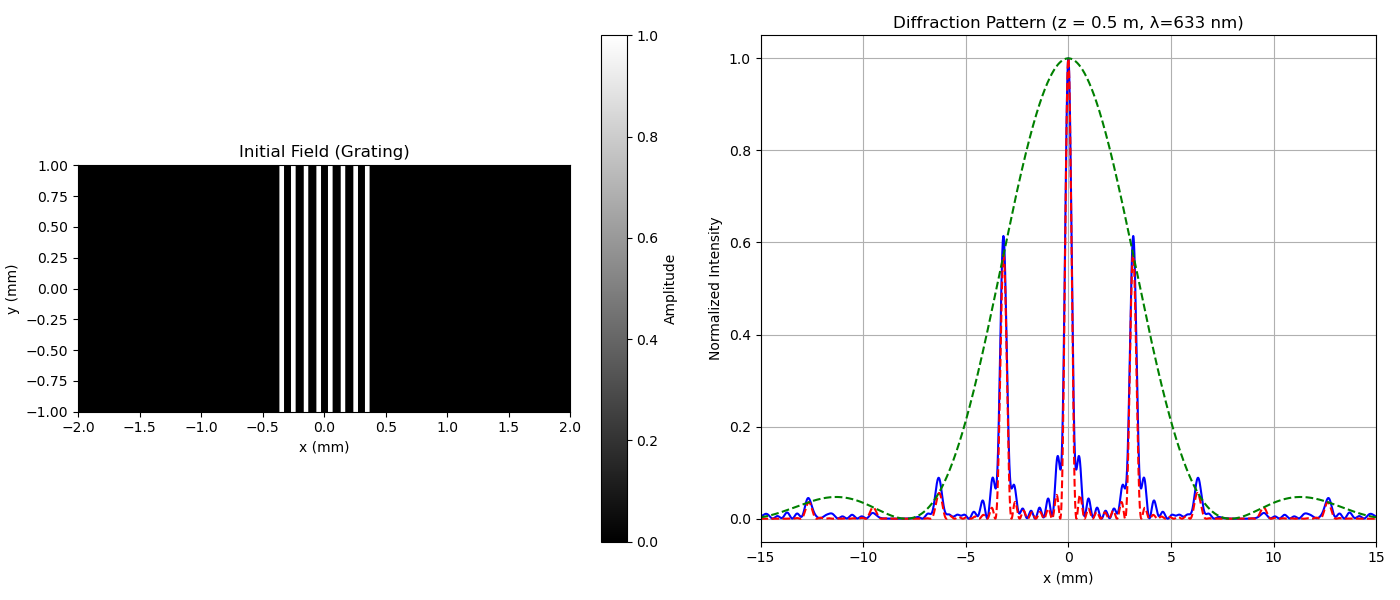
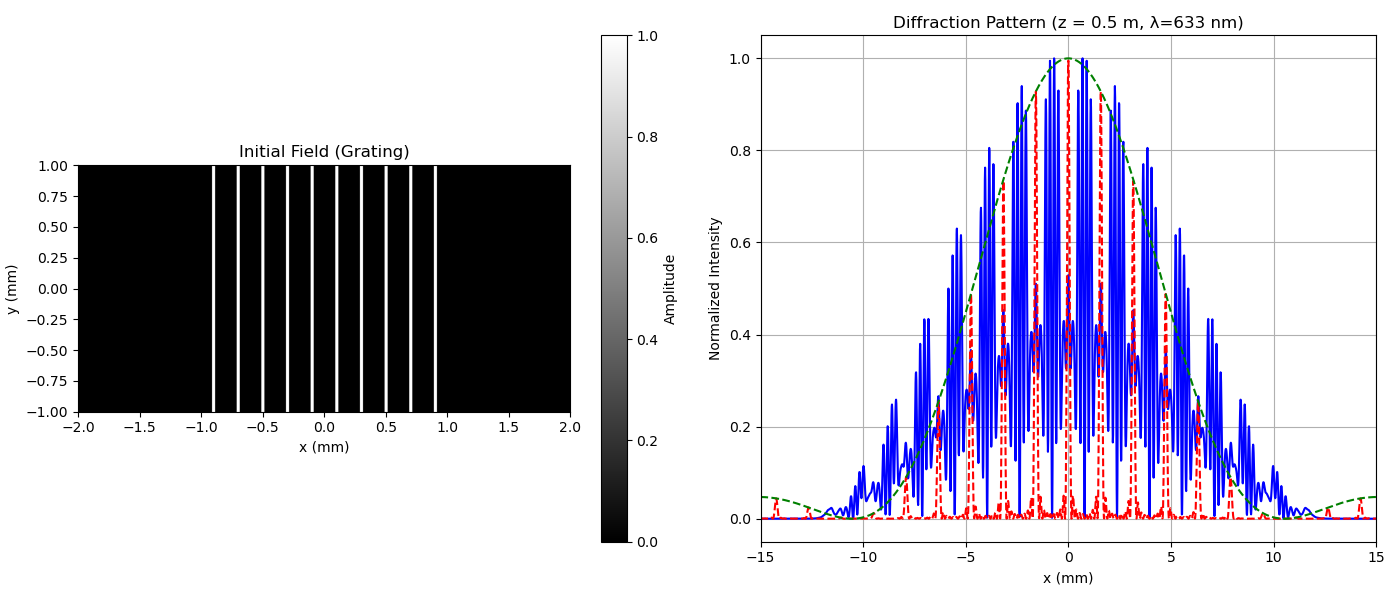
okay im done with tiling for now it can;t get the same accuracy as full field and doesnt offer too much in terms of performance gain

Changed region(s): [[0.5529, 0.09, 0.9829, 0.87], [0.1536, 0.27, 0.3071, 0.69]]

diff --git a/lightpy/experiment_functions.py b/lightpy/experiment_functions.py
@@ -46,9 +46,12 @@ def run_single_slit_experiment(config_file_name="single_slit_basic.json"):
     if not tiling_cfg['use_tiling']:
       U_final = run_angular_spectrum_simulation(U0, wavelength, Lx, Ly, z_prop)
     else:
-      tile_size = tiling_cfg['tile_size']
-      pad = tiling_cfg['pad']
-      U_final = run_tiled_propagation(U0, wavelength, Lx, Ly, z_prop, tile_size, pad)
+      tile_size_x = tiling_cfg['tile_size_x']
+      pad_x = tiling_cfg['pad_x']
+      tile_size_y = tiling_cfg['tile_size_y']
+      pad_y = tiling_cfg['pad_y']
+      U_final = run_tiled_propagation(U0, wavelength, Lx, Ly, z_prop, \
+                                      tile_size_x, pad_x, tile_size_y, pad_y)
     I_final = np.abs(U_final)**2
 
     # Plot results using the utility function
@@ -89,9 +92,12 @@ def run_double_slit_experiment(config_file_name="double_slit_interference.json")
     if not tiling_cfg['use_tiling']:
       U_final = run_angular_spectrum_simulation(U0, wavelength, Lx, Ly, z_prop)
     else:
-      tile_size = tiling_cfg['tile_size']
-      pad = tiling_cfg['pad']
-      U_final = run_tiled_propagation(U0, wavelength, Lx, Ly, z_prop, tile_size, pad)
+      tile_size_x = tiling_cfg['tile_size_x']
+      pad_x = tiling_cfg['pad_x']
+      tile_size_y = tiling_cfg['tile_size_y']
+      pad_y = tiling_cfg['pad_y']
+      U_final = run_tiled_propagation(U0, wavelength, Lx, Ly, z_prop, \
+                                      tile_size_x, pad_x, tile_size_y, pad_y)
     I_final = np.abs(U_final)**2
 
     # Plot results using the utility function
@@ -129,9 +135,12 @@ def run_circular_aperture_experiment(config_file_name="circular_aperture_airy.js
     if not tiling_cfg['use_tiling']:
       U_final = run_angular_spectrum_simulation(U0, wavelength, Lx, Ly, z_prop)
     else:
-      tile_size = tiling_cfg['tile_size']
-      pad = tiling_cfg['pad']
-      U_final = run_tiled_propagation(U0, wavelength, Lx, Ly, z_prop, tile_size, pad)
+      tile_size_x = tiling_cfg['tile_size_x']
+      pad_x = tiling_cfg['pad_x']
+      tile_size_y = tiling_cfg['tile_size_y']
+      pad_y = tiling_cfg['pad_y']
+      U_final = run_tiled_propagation(U0, wavelength, Lx, Ly, z_prop, \
+                                      tile_size_x, pad_x, tile_size_y, pad_y)
     I_final = np.abs(U_final)**2
 
     # Plot results using the utility function
@@ -176,9 +185,12 @@ def run_grating_experiment(config_file_name="diffraction_grating.json"):
     if not tiling_cfg['use_tiling']:
       U_final = run_angular_spectrum_simulation(U0, wavelength, Lx, Ly, z_prop)
     else:
-      tile_size = tiling_cfg['tile_size']
-      pad = tiling_cfg['pad']
-      U_final = run_tiled_propagation(U0, wavelength, Lx, Ly, z_prop, tile_size, pad)
+      tile_size_x = tiling_cfg['tile_size_x']
+      pad_x = tiling_cfg['pad_x']
+      tile_size_y = tiling_cfg['tile_size_y']
+      pad_y = tiling_cfg['pad_y']
+      U_final = run_tiled_propagation(U0, wavelength, Lx, Ly, z_prop, \
+                                      tile_size_x, pad_x, tile_size_y, pad_y)
     I_final = np.abs(U_final)**2
 
     # Plot results using the utility function

diff --git a/lightpy/core_propagator.py b/lightpy/core_propagator.py
@@ -37,33 +37,40 @@ def run_angular_spectrum_simulation(U0, wavelength, Lx, Ly, z_prop):
     return ifft2(ifftshift(A0))
     
 
-def run_tiled_propagation(U0, wavelength, Lx, Ly, z_prop, tile_size=512, pad=64):
+def run_tiled_propagation(U0, wavelength, Lx, Ly, z_prop, tile_size_x=512, pad_x=64, tile_size_y=512, pad_y=64):
     Ny, Nx = U0.shape
     output = np.zeros_like(U0, dtype=np.complex128)
 
-    step = tile_size - 2 * pad
-    for y in range(0, Ny, step):
-        for x in range(0, Nx, step):
-            y0 = max(y - pad, 0)
-            y1 = min(y + tile_size - pad, Ny)
-            x0 = max(x - pad, 0)
-            x1 = min(x + tile_size - pad, Nx)
+    dx = Lx / Nx
+    dy = Ly / Ny
 
-            tile = np.zeros((tile_size, tile_size), dtype=U0.dtype)
+    step_x = tile_size_x - 2 * pad_x
+    step_y = tile_size_y - 2 * pad_y
+    for y in range(0, Ny, step_y):
+        for x in range(0, Nx, step_x):
+            y0 = max(y - pad_y, 0)
+            y1 = min(y + tile_size_y - pad_y, Ny)
+            x0 = max(x - pad_x, 0)
+            x1 = min(x + tile_size_x - pad_x, Nx)
+
+            tile = np.zeros((tile_size_y, tile_size_x), dtype=U0.dtype)
             sy = slice(0, y1 - y0)
             sx = slice(0, x1 - x0)
             tile[sy, sx] = U0[y0:y1, x0:x1]
 
-            tile_prop = run_angular_spectrum_simulation(tile, wavelength, Lx, Ly, z_prop)
+            Lx_tile = dx * tile_size_x
+            Ly_tile = dy * tile_size_y
+            tile_prop = run_angular_spectrum_simulation(tile, wavelength, Lx_tile, Ly_tile, z_prop)
+            #tile_prop = run_angular_spectrum_simulation(tile, wavelength, Lx, Ly, z_prop)
 
             # Crop to central (non-padded) region
-            cy0, cy1 = pad, tile_size - pad
-            cx0, cx1 = pad, tile_size - pad
-
+            cy0, cy1 = pad_y, tile_size_y - pad_y
+            cx0, cx1 = pad_x, tile_size_x - pad_x
+            
             oy0 = y
-            oy1 = min(y + step, Ny)
+            oy1 = min(y + step_y, Ny)
             ox0 = x
-            ox1 = min(x + step, Nx)
+            ox1 = min(x + step_x, Nx)
 
             output[oy0:oy1, ox0:ox1] = tile_prop[cy0:cy0 + (oy1 - oy0), cx0:cx0 + (ox1 - ox0)]
 

diff --git a/scripts/tiling_test.py b/scripts/tiling_test.py
@@ -1,12 +1,13 @@
 from lightpy import (
     run_tiled_propagation,
     run_angular_spectrum_simulation,
-    create_circular_aperture_mask
+    create_circular_aperture_mask,
+    create_single_slit_mask
 )
 import numpy as np
 import matplotlib.pyplot as plt
 
-Ny, Nx = 2048, 2048
+Ny, Nx = 4096, 4096
 Lx, Ly = 10.e-3, 10.e-3 # m
 dx, dy = Lx / Nx, Ly / Ny
 wavelength = 532.e-9 # m
@@ -19,14 +20,30 @@ X, Y = np.meshgrid(x, y, indexing='xy')
 radius = 0.2e-3
 #U0 = (np.sqrt(X**2 + Y**2) < radius).astype(np.complex64)
 U0 = create_circular_aperture_mask(X, Y, radius)
+#U0 = create_single_slit_mask(X, Y, 100.e-6, 5e-3)
 
-U_non_tiled = run_tiled_propagation(U0, wavelength, Lx, Ly, z_prop, tile_size=512, pad=128)
-U_tiled = run_angular_spectrum_simulation(U0, wavelength, Lx, Ly, z_prop)
-
+U_tiled = run_tiled_propagation(U0, wavelength, Lx, Ly, z_prop, tile_size=1024, pad=64)
+U_non_tiled = run_angular_spectrum_simulation(U0, wavelength, Lx, Ly, z_prop)
 
 # Assuming U1 is the propagated field from tiled_propagation()
 #intensity = np.abs(U1)**2
 relative_error = np.abs(U_tiled - U_non_tiled) / (np.abs(U_non_tiled) + 1e-12)
+
+plt.figure(figsize=(8, 6))
+plt.imshow(np.abs(U_tiled)**2, extent=[-Lx/2*1e3, Lx/2*1e3, -Ly/2*1e3, Ly/2*1e3], cmap='inferno')
+plt.colorbar(label='Intensity (a.u.)')
+plt.xlabel('x (mm)')
+plt.ylabel('y (mm)')
+plt.title('Propagated Intensity Pattern')
+plt.savefig("results/tile_intensity.png")
+
+plt.figure(figsize=(8, 6))
+plt.imshow(np.abs(U_non_tiled)**2, extent=[-Lx/2*1e3, Lx/2*1e3, -Ly/2*1e3, Ly/2*1e3], cmap='inferno')
+plt.colorbar(label='Intensity (a.u.)')
+plt.xlabel('x (mm)')
+plt.ylabel('y (mm)')
+plt.title('Propagated Intensity Pattern')
+plt.savefig("results/full_intensity.png")
 
 plt.figure(figsize=(8, 6))
 plt.imshow(relative_error, extent=[-Lx/2*1e3, Lx/2*1e3, -Ly/2*1e3, Ly/2*1e3], cmap='inferno')

diff --git a/scripts/running_experiments.py b/scripts/running_experiments.py
@@ -12,7 +12,7 @@ from memory_profiler import profile
 def main():
 
     #run_all_checks("single_slit_basic.json")
-    #run_single_slit_experiment("single_slit_basic.json")
+    run_single_slit_experiment("single_slit_basic.json")
 
     #run_all_checks("double_slit_interference.json")
     #run_double_slit_experiment("double_slit_interference.json")
@@ -20,8 +20,8 @@ def main():
     #run_all_checks("circular_aperture_airy.json")
     #run_circular_aperture_experiment("circular_aperture_airy.json")
 
-    run_all_checks("diffraction_grating.json")
-    run_grating_experiment("diffraction_grating.json")
+    #run_all_checks("diffraction_grating.json")
+    #run_grating_experiment("diffraction_grating.json")
 
 if __name__ == '__main__':
     main()
